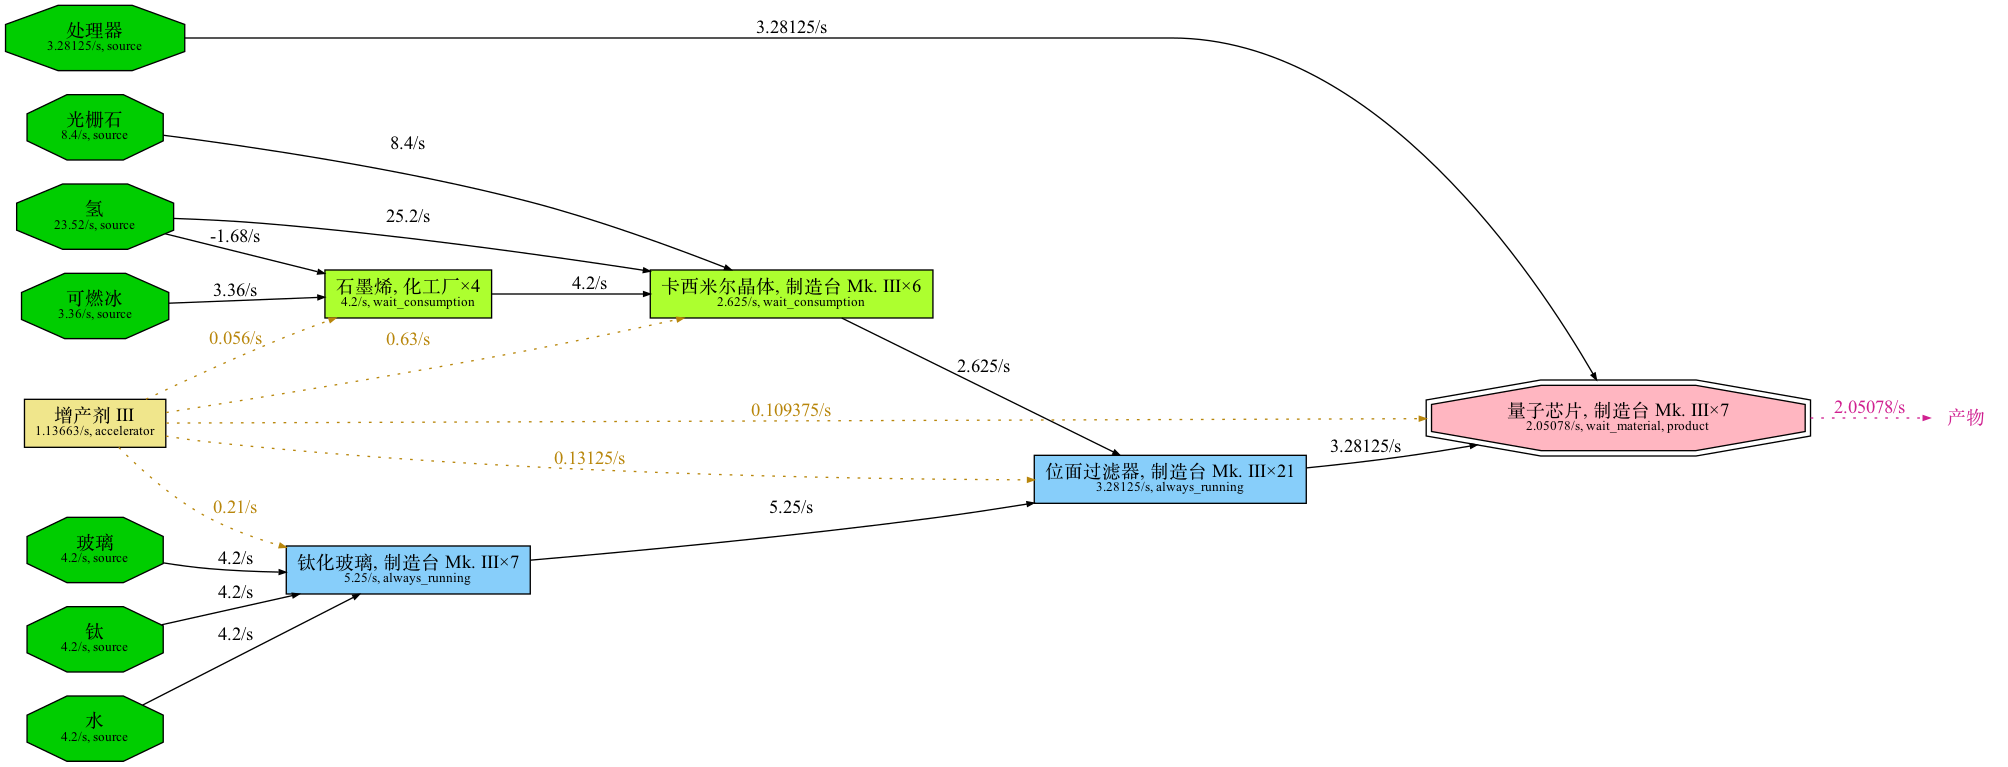
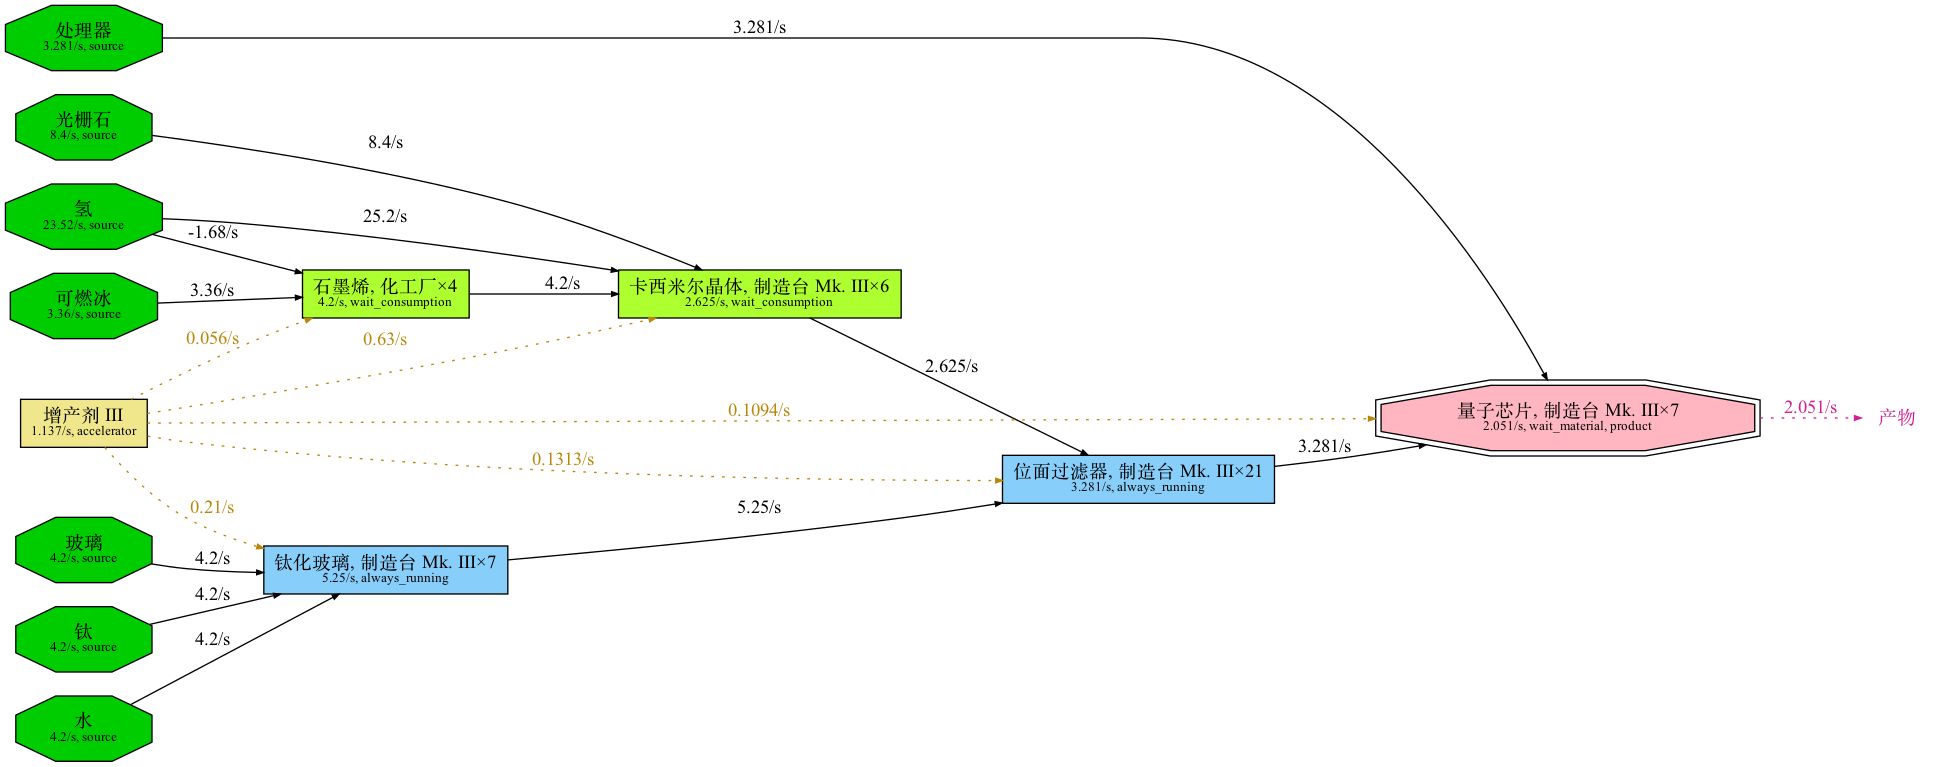
Split algorithm

diff --git a/dyson.py b/dyson.py
@@ -1,5 +1,5 @@
 import typing as T
-from dataclasses import dataclass
+from dataclasses import dataclass, replace
 from collections import deque
 import math
 import sys
@@ -16,7 +16,8 @@ class Machine(T.NamedTuple):
     time_factor: float
 
 
-class Process(T.NamedTuple):
+@dataclass
+class Process:
     materials: T.List[T.Tuple[str, float]]
     machine: str
     time: float
@@ -27,6 +28,7 @@ class Process(T.NamedTuple):
 @dataclass
 class Def:
     name: str
+    original_sym: str
     is_source: bool = False
     is_product: bool = False
     product_need: float = 0
@@ -119,6 +121,12 @@ def equal_with_none(a: T.Optional[float], b: T.Optional[float]):
     return abs(a - b) < 1e-8
 
 
+def decomment(s: str) -> str:
+    if '#' in s:
+        return s[:s.index('#')]
+    return s
+
+
 class Dyson:
     def __init__(self):
         self._def = {}  # type: T.Dict[str, Def]
@@ -130,13 +138,9 @@ class Dyson:
         self._real_source = []  # type: T.List[str]
 
     def eval_line(self, s: str, lineno: int):
-        s = s.strip()
+        s = decomment(s).strip()
 
         if len(s) == 0:
-            return
-
-        elif s.startswith('#'):
-            # comment
             return
 
         elif s.startswith('def '):
@@ -149,7 +153,11 @@ class Dyson:
                 raise ValueError(
                     "Redefined error (2) at line {}: {} already defined".
                     format(lineno, sym))
-            self._def[sym] = Def(name)
+            if sym.startswith("_"):
+                raise ValueError(
+                    "Bad symbol (22) at line {}: symbol cannot begin with underline"
+                    .format(lineno))
+            self._def[sym] = Def(name=name, original_sym=sym)
 
         elif s.startswith('source '):
             ss = strip_prefix(s, 'source ')
@@ -283,7 +291,7 @@ class Dyson:
             real_produce_rate *= acc.acc_factor
         return real_produce_rate
 
-    def _check_loop(self):
+    def _dfs_check_loop(self):
         instack = set()  # type: T.Set[str]
         visited = set()  # type: T.Set[str]
 
@@ -294,22 +302,17 @@ class Dyson:
             visited.add(sym)
 
             def_ = self._def[sym]
-            def_.visited = True
             if def_.process is None or def_.is_source:
                 instack.remove(sym)
                 return
 
             process = self._process[def_.process]
-            real_produce_rate = self._calc_real_produce_rate(process)
 
             for pred_sym, pred_need in process.materials:
-                z = pred_need / real_produce_rate
                 if pred_sym in instack:
                     raise ValueError(
                         "loop detected at symbol {}".format(pred_sym))
-                if not pred_sym in self._successor:
-                    self._successor[pred_sym] = []
-                self._successor[pred_sym].append((sym, z))
+
                 _visitor(pred_sym)
 
             instack.remove(sym)
@@ -322,6 +325,71 @@ class Dyson:
 
         if no_product:
             raise ValueError("no product indicated")
+
+    def _clone_def(self, sym: str, new_sym: str, new_name: str) -> Def:
+        def_ = self._def[sym]
+        new_def = replace(def_, name=new_name, is_product=False)
+
+        if def_.process is not None:
+            process = self._process[def_.process]
+            new_process = replace(process, materials=process.materials.copy())
+            new_process_id = len(self._process)
+            self._process.append(new_process)
+            new_def.process = new_process_id
+
+        assert not new_sym in self._def
+        self._def[new_sym] = new_def
+        return new_def
+
+    def _dfs_split(self):
+        split_count = {}  # type: T.Dict[str, int]
+
+        def _visitor(sym: str):
+            def_ = self._def[sym]
+            def_.visited = True
+            if def_.process is None or def_.is_source:
+                return
+
+            process = self._process[def_.process]
+            real_produce_rate = self._calc_real_produce_rate(process)
+
+            for k, (pred_sym, pred_need) in enumerate(process.materials):
+                pred_def = self._def[pred_sym]
+
+                if pred_def.is_source:
+                    # not split
+                    new_pred_sym = pred_sym
+
+                else:
+                    original_sym = pred_def.original_sym
+                    if not original_sym in split_count:
+                        split_count[original_sym] = 0
+                    this_count = split_count[original_sym]
+                    split_count[original_sym] += 1
+                    new_pred_sym = "_{}_{}".format(original_sym, this_count)
+                    new_pred_name = pred_def.name
+                    if this_count > 0:
+                        new_pred_name = "{} ({})".format(
+                            pred_def.name, this_count + 1)
+
+                    new_pred_def = self._clone_def(pred_sym, new_pred_sym,
+                                                   new_pred_name)
+                    process.materials[k] = (new_pred_sym, pred_need)
+
+                if not new_pred_sym in self._successor:
+                    self._successor[new_pred_sym] = []
+                z = pred_need / real_produce_rate
+                self._successor[new_pred_sym].append((sym, z))
+
+                _visitor(new_pred_sym)
+
+        target = []
+        for sym, def_ in self._def.items():
+            if def_.is_product:
+                target.append(sym)
+
+        for sym in target:
+            _visitor(sym)
 
     def _bfs_1(self):
         q = deque()  # type: T.Deque[str]
@@ -469,7 +537,8 @@ class Dyson:
                     q.append(pred_sym)
 
     def analyze(self):
-        self._check_loop()
+        self._dfs_check_loop()
+        self._dfs_split()
         self._bfs_1()
         self._bfs_2()
         self._bfs_3()
@@ -485,6 +554,7 @@ class Dyson:
         products = []
 
         print("digraph g {")
+        print('    splines = "true"')
         print('    rankdir = "LR"')
 
         for sym, def_ in self._def.items():
@@ -493,7 +563,7 @@ class Dyson:
 
             label_caption_part = [def_.name]
             label_detail_part = [
-                "{:.6g}/s".format(def_.actual_rate),
+                "{:.4g}/s".format(def_.actual_rate),
             ]
             if (not def_.is_source) and def_.process is not None:
                 process = self._process[def_.process]
@@ -552,7 +622,7 @@ class Dyson:
                 actual_go = def_.actual_rate * z
                 pred_def.succ_output_rate += actual_go
                 print(
-                    '    def_{} -> def_{} [label = "{:.6g}/s", arrowsize = 0.5]'
+                    '    def_{} -> def_{} [label = "{:.4g}/s", arrowsize = 0.5]'
                     .format(pred_sym, sym, actual_go))
                 if actual_go > 0:
                     go_sum += actual_go
@@ -572,18 +642,18 @@ class Dyson:
         for acc_sym, r in acc_point.items():
             print(
                 '    acc_{} [label = <{}<BR /><FONT POINT-SIZE="10">{}, accelerator</FONT>>, shape = "box", style = "filled", fillcolor = "khaki"]'
-                .format(acc_sym, r["name"], "{:.6g}/s".format(r["total"])))
+                .format(acc_sym, r["name"], "{:.4g}/s".format(r["total"])))
 
         for r in acc_record:
             print(
-                '    acc_{} -> def_{} [label = "{:.6g}/s", style = "dotted", color = "darkgoldenrod", fontcolor = "darkgoldenrod", arrowsize = 0.5]'
+                '    acc_{} -> def_{} [label = "{:.4g}/s", style = "dotted", color = "darkgoldenrod", fontcolor = "darkgoldenrod", arrowsize = 0.5]'
                 .format(r["acc"], r["product"], r["rate"]))
 
         for sym in products:
             def_ = self._def[sym]
             product_rate = def_.actual_rate - def_.succ_output_rate
             print(
-                '    def_{} -> t [label = "{:.6g}/s", style = "dotted", color = "violetred", fontcolor = "violetred", arrowsize = 0.5]'
+                '    def_{} -> t [label = "{:.4g}/s", style = "dotted", color = "violetred", fontcolor = "violetred", arrowsize = 0.5]'
                 .format(sym, product_rate))
 
         print('    {{ rank = "same"; {} }}'.format(", ".join(
